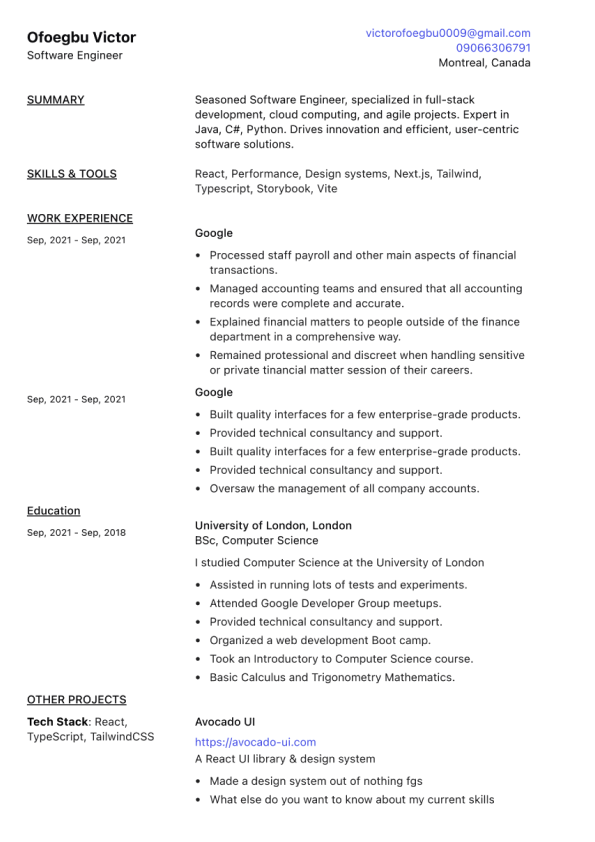
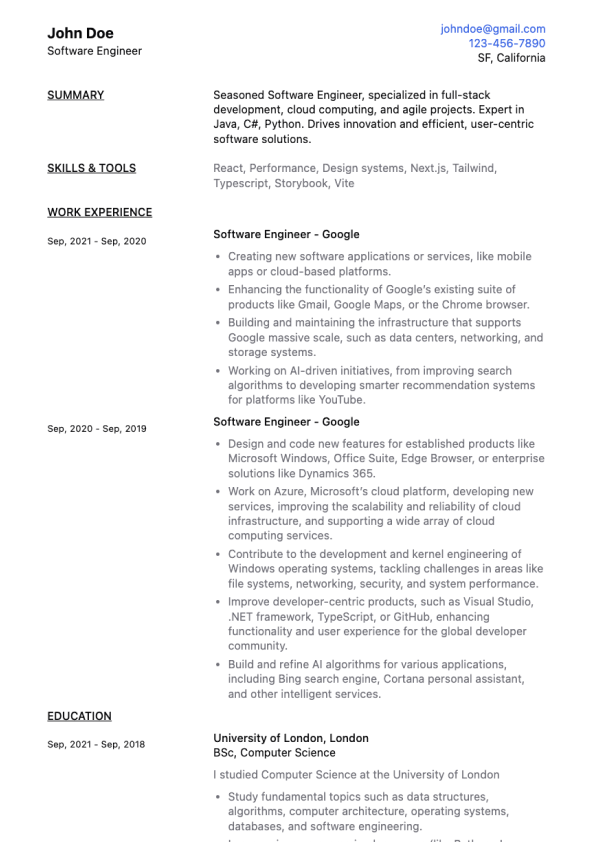
chore: switch templates

diff --git a/src/pages/templates/mature.tsx b/src/pages/templates/mature.tsx
@@ -34,12 +34,12 @@ export function ResumeTemplateMature() {
             <section>
                 <SectionHeading title="WORK EXPERIENCE" />
                 {workExperience?.map((experience, idx) => {
-                    const { endDate, startDate, highlights, company } = experience
+                    const { endDate, startDate, highlights, company, title } = experience
                     return (
                         <article className="flex mb-2" key={idx}>
                             <DateRange startDate={startDate} endDate={endDate} />
                             <div className="flex-1">
-                                <h2 className="font-medium text-xs mb-2">{company}</h2>
+                                <h2 className="font-medium text-xs mb-2">{title} - {company}</h2>
                                 <HighlightsList highlights={highlights ?? []} />
                             </div>
                         </article>
